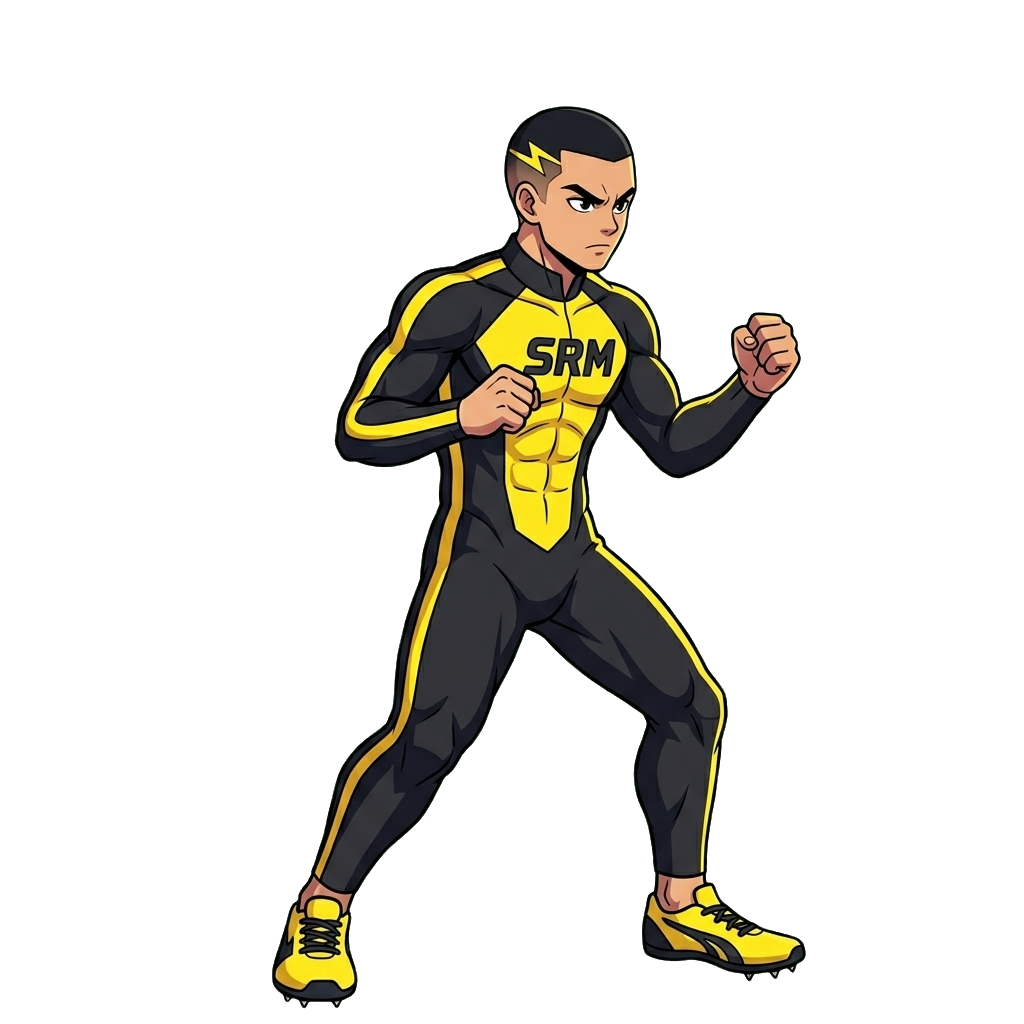
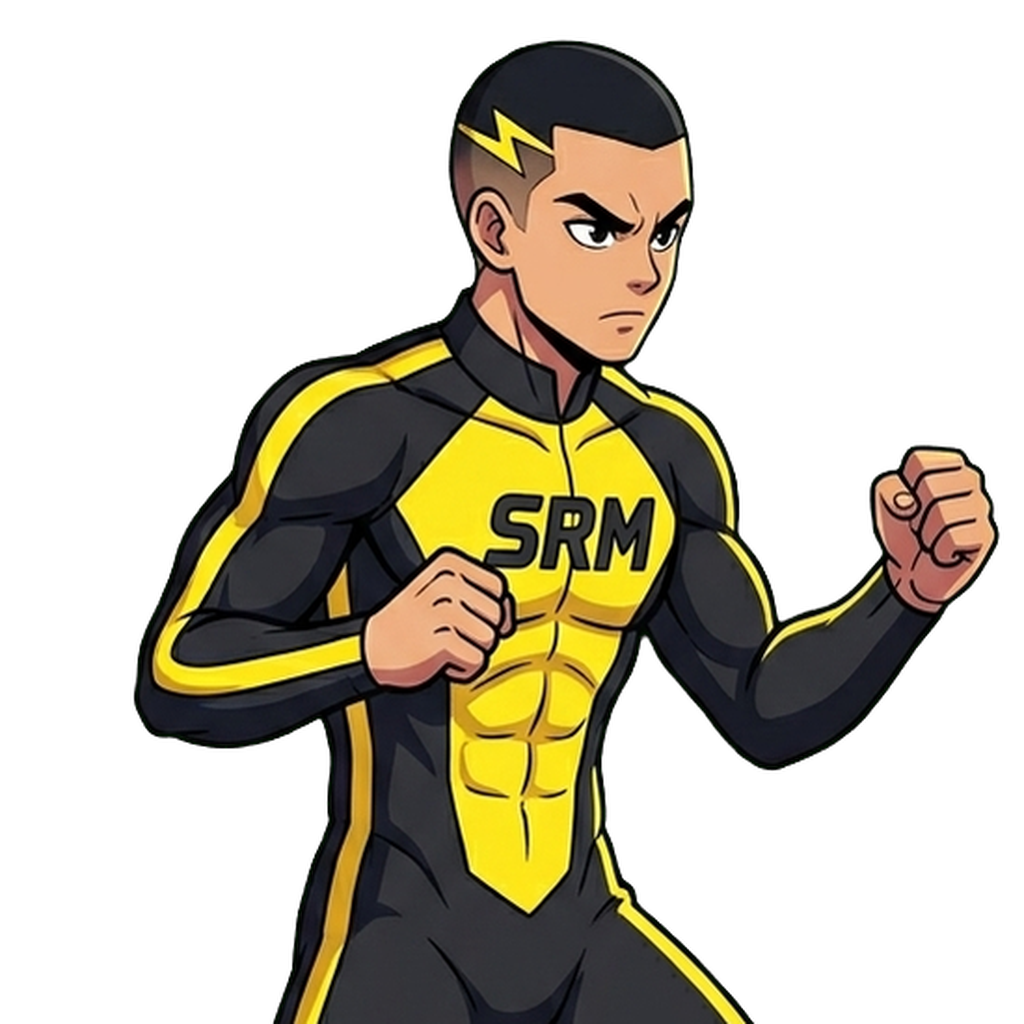
style(character-select): enlarge 4x2 grid cards and standardize heroic waist-up portraits for all fighters

diff --git a/css/characterSelect.css b/css/characterSelect.css
@@ -596,12 +596,12 @@
 }
 
 /* --------------------------------------------------------------------------
-   5. Right Column: 4x2 Card Grid Section (~510px width)
+   5. Right Column: 4x2 Card Grid Section (~580px width)
    -------------------------------------------------------------------------- */
 .char-grid-section {
   position: relative;
-  flex: 0 0 510px;
-  width: 510px;
+  flex: 0 0 580px;
+  width: 580px;
   display: flex;
   align-items: center;
   justify-content: center;
@@ -613,9 +613,9 @@
   position: relative;
   z-index: 2;
   display: grid;
-  grid-template-columns: repeat(4, 115px);
-  grid-template-rows: repeat(2, 172px);
-  gap: 8px 10px;
+  grid-template-columns: repeat(4, 132px);
+  grid-template-rows: repeat(2, 196px);
+  gap: 10px 12px;
   justify-content: center;
 }
 
@@ -624,20 +624,20 @@
    -------------------------------------------------------------------------- */
 .char-card {
   position: relative;
-  width: 110px;
-  height: 172px;
+  width: 132px;
+  height: 196px;
   box-sizing: border-box;
   background: linear-gradient(145deg, rgba(12, 20, 36, 0.82) 0%, rgba(6, 12, 24, 0.9) 100%);
   backdrop-filter: blur(4px);
   -webkit-backdrop-filter: blur(4px);
   border: 1.5px solid rgba(255, 255, 255, 0.16);
   clip-path: polygon(
-    9px 0,
+    10px 0,
     100% 0,
-    100% calc(100% - 9px),
-    calc(100% - 9px) 100%,
+    100% calc(100% - 10px),
+    calc(100% - 10px) 100%,
     0 100%,
-    0 9px
+    0 10px
   );
   cursor: pointer;
   transition: transform 0.2s cubic-bezier(0.175, 0.885, 0.32, 1.275), border-color 0.2s ease, box-shadow 0.2s ease;
@@ -663,7 +663,7 @@
   display: flex;
   flex-direction: column;
   justify-content: space-between;
-  padding: 4px 5px 3px 5px;
+  padding: 5px 6px 4px 6px;
   box-sizing: border-box;
   z-index: 2;
 }
@@ -753,9 +753,9 @@
 
 .card-num-badge {
   font-family: 'Press Start 2P', monospace;
-  font-size: 6px;
+  font-size: 7px;
   font-weight: 900;
-  padding: 2px 3.5px;
+  padding: 2.5px 4.5px;
   border-radius: 2px;
   display: inline-flex;
   align-items: center;
@@ -782,7 +782,7 @@
 
 .card-slogan {
   font-family: 'Rajdhani', sans-serif;
-  font-size: 5px;
+  font-size: 5.8px;
   font-weight: 700;
   line-height: 1.15;
   color: rgba(255, 255, 255, 0.85);
@@ -792,23 +792,23 @@
 }
 
 .slogan-crown {
-  font-size: 6.5px;
+  font-size: 7.5px;
   line-height: 1;
   filter: drop-shadow(0 0 4px #ffd700);
 }
 
 .card-decor-icon {
-  font-size: 6.5px;
+  font-size: 7.5px;
   line-height: 1;
 }
 
 /* Pick Badges */
 .card-badge {
   position: absolute;
-  top: 20px;
-  padding: 2px 5px;
+  top: 24px;
+  padding: 2.5px 6px;
   font-family: 'Press Start 2P', monospace;
-  font-size: 5.5px;
+  font-size: 6px;
   font-weight: 900;
   border-radius: 3px;
   display: none;
@@ -850,7 +850,7 @@
 .card-portrait-wrap {
   position: relative;
   width: 100%;
-  height: 84px;
+  height: 98px;
   display: flex;
   align-items: center;
   justify-content: center;
@@ -903,7 +903,7 @@
 /* Card Nameplate */
 .card-nameplate {
   text-align: center;
-  padding: 2px 3px;
+  padding: 2.5px 3px;
   background: linear-gradient(180deg, rgba(8, 14, 28, 0.95) 0%, rgba(14, 24, 46, 0.98) 100%);
   border-top: 1px solid rgba(255, 255, 255, 0.12);
   border-radius: 0 0 2px 2px;
@@ -911,7 +911,7 @@
 
 .char-name {
   font-family: 'Press Start 2P', monospace;
-  font-size: 6px;
+  font-size: 7px;
   color: #ffffff;
   letter-spacing: 0.2px;
   text-shadow: 0 0 6px var(--card-accent, #ffd700);
@@ -922,13 +922,13 @@
 }
 
 .char-card[data-id="placementWarrior"] .char-name {
-  font-size: 4.8px;
+  font-size: 5.6px;
   letter-spacing: -0.2px;
 }
 
 .char-subtitle {
   font-family: 'Rajdhani', sans-serif;
-  font-size: 7.5px;
+  font-size: 8px;
   font-weight: 700;
   color: var(--card-accent, #ffd700);
   letter-spacing: 0.8px;
@@ -939,28 +939,28 @@
 .card-stats {
   display: flex;
   flex-direction: column;
-  gap: 2px;
-  margin: 1.5px 0 1px 0;
+  gap: 2.5px;
+  margin: 2px 0 1px 0;
   padding: 0 2px;
 }
 
 .stat-bar-row {
   display: flex;
   align-items: center;
-  gap: 4px;
+  gap: 5px;
 }
 
 .stat-label {
   width: 20px;
   font-family: 'Press Start 2P', monospace;
-  font-size: 5px;
+  font-size: 5.5px;
   color: #90a4ae;
   letter-spacing: 0.2px;
 }
 
 .stat-bar-track {
   flex: 1;
-  height: 3.5px;
+  height: 4.5px;
   background: #080e1b;
   border: 1px solid rgba(255, 255, 255, 0.1);
   border-radius: 2px;

diff --git a/index.html b/index.html
@@ -50,15 +50,15 @@
   <link rel="preconnect" href="https://fonts.gstatic.com" crossorigin>
   <link href="https://fonts.googleapis.com/css2?family=Permanent+Marker&family=Orbitron:wght@600;700;800;900&family=Press+Start+2P&family=Rajdhani:wght@600;700;900&family=Space+Grotesk:wght@500;700&display=swap" rel="stylesheet">
 
-  <!-- External Stylesheets (v=16 cache bust) -->
-  <link rel="stylesheet" href="css/main.css?v=16">
-  <link rel="stylesheet" href="css/landing.css?v=16">
-  <link rel="stylesheet" href="css/characterSelect.css?v=16">
-  <link rel="stylesheet" href="css/stageSelect.css?v=16">
-  <link rel="stylesheet" href="css/game.css?v=16">
-  <link rel="stylesheet" href="css/leaderboard.css?v=16">
-  <link rel="stylesheet" href="css/entryPortal.css?v=16">
-  <link rel="stylesheet" href="css/campus-clash-ui.css?v=4">
+  <!-- External Stylesheets (v=17 cache bust) -->
+  <link rel="stylesheet" href="css/main.css?v=17">
+  <link rel="stylesheet" href="css/landing.css?v=17">
+  <link rel="stylesheet" href="css/characterSelect.css?v=17">
+  <link rel="stylesheet" href="css/stageSelect.css?v=17">
+  <link rel="stylesheet" href="css/game.css?v=17">
+  <link rel="stylesheet" href="css/leaderboard.css?v=17">
+  <link rel="stylesheet" href="css/entryPortal.css?v=17">
+  <link rel="stylesheet" href="css/campus-clash-ui.css?v=5">
   <link rel="stylesheet" href="css/pauseMenu.css?v=1">
   <link rel="stylesheet" href="css/touchControls.css?v=1">
   <link rel="manifest" href="manifest.webmanifest">
